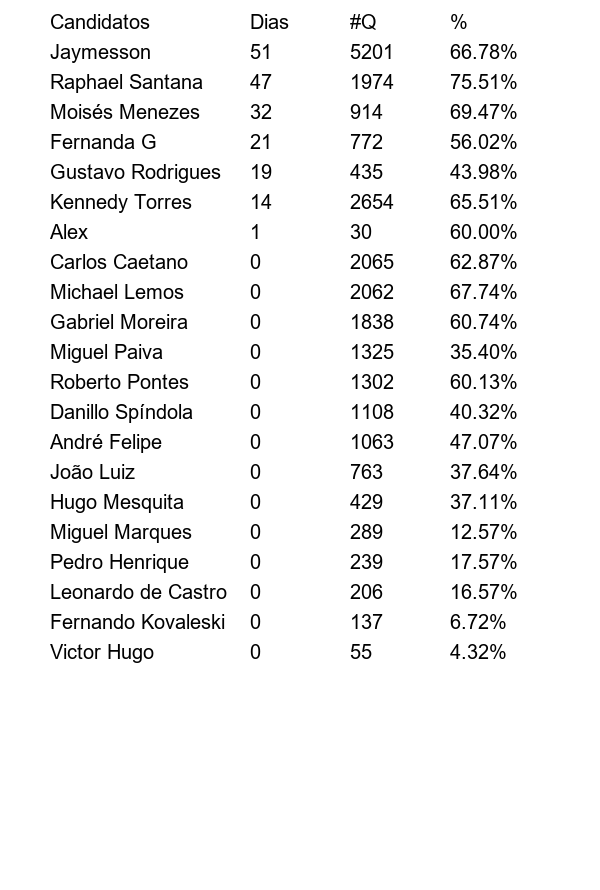
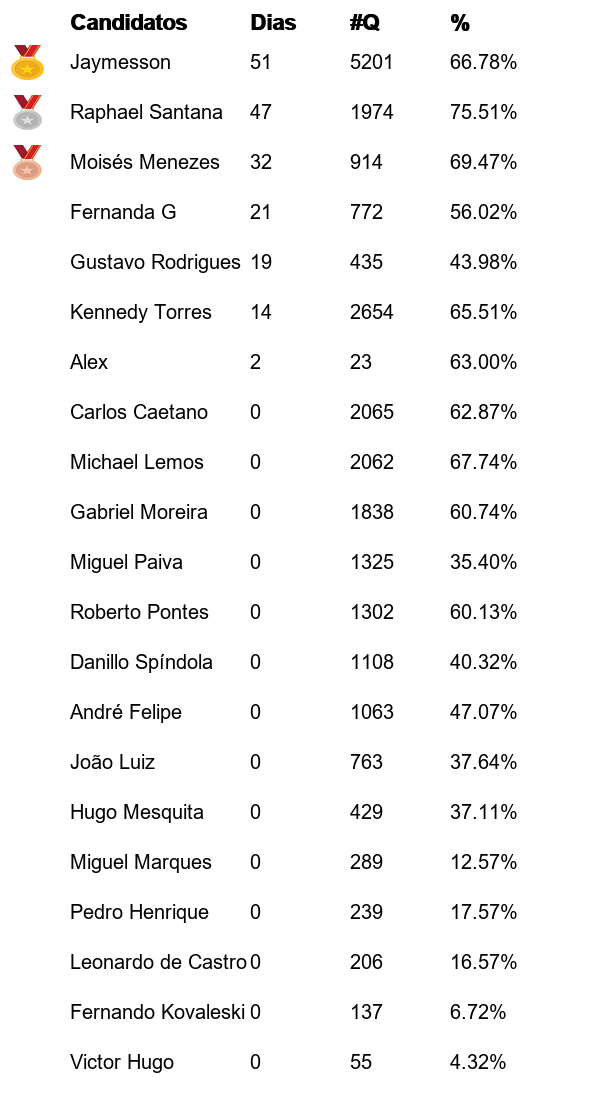
Ajustes na lógica e no json

diff --git a/bot_DEVEst.py b/bot_DEVEst.py
@@ -14,6 +14,7 @@ import json
 import os
 import pandas as pd
 import re
+# 🔹 Função para gerar a imagem do ranking
 from PIL import Image, ImageDraw, ImageFont
 
 # Obtém o diretório onde o script está localizado
@@ -81,36 +82,9 @@ async def receber_dados(update: Update, context: CallbackContext):
         # Obtém o nome real do usuário (primeiro nome + sobrenome se disponível)
         nome_usuario = f"{user.first_name} {user.last_name}".strip() if user.last_name else user.first_name
 
-        # Obtém e normaliza o número de telefone (se disponível no Telegram)
-        telefone = None
-        if hasattr(user, "phone_number") and user.phone_number:
-            telefone = normalizar_numero(user.phone_number)
-
         # Obtém a data atual no fuso horário de Brasília
         fuso_brasilia = pytz.timezone("America/Sao_Paulo")
         data_atual = datetime.now(fuso_brasilia).strftime("%Y-%m-%d")
-
-        # 🔹 Garantir que todos os usuários tenham `ultima_data` preenchida corretamente
-        for usuario, dados in dados_usuarios.items():
-            if "ultima_data" not in dados or not dados["ultima_data"]:
-                dados_usuarios[usuario]["ultima_data"] = data_atual  # Define a data atual se estiver vazia
-
-        # 🔹 Remover números de telefone inválidos (exemplo: "+5500000000...")
-        for usuario, dados in dados_usuarios.items():
-            telefone_salvo = dados.get("telefone", "")
-            if telefone_salvo and "000000000" in telefone_salvo:  # Se o telefone for inválido, remove
-                dados_usuarios[usuario]["telefone"] = None
-
-        # Verifica se o telefone já existe na base e associa ao nome
-        usuario_existente = None
-        for usuario, dados in dados_usuarios.items():
-            telefone_salvo = normalizar_numero(dados.get("telefone"))
-            if telefone_salvo == telefone:
-                usuario_existente = usuario
-                break
-
-        if usuario_existente:
-            nome_usuario = usuario_existente  # Mantém o nome original do WhatsApp
 
         # Separa os dados enviados (formato correto: `@SeLigaDEV 23/63%`)
         padrao = rf"@{context.bot.username} (\d+)/(\d+)%"
@@ -122,43 +96,46 @@ async def receber_dados(update: Update, context: CallbackContext):
 
             if nome_usuario in dados_usuarios:
                 # Obtém a última data registrada
-                ultima_data = dados_usuarios[nome_usuario].get("ultima_data", data_atual)
+                ultima_data = dados_usuarios[nome_usuario].get("ultima_data", "")
 
-                # Se for um novo dia, incrementa a contagem de dias consecutivos
+                # Se for um novo dia, acumula os dados antigos no total antes de sobrescrever
                 if ultima_data != data_atual:
+                    if "questoes_do_dia" in dados_usuarios[nome_usuario]:
+                        # Adiciona as questões do dia anterior ao total
+                        dados_usuarios[nome_usuario]["questoes"] += dados_usuarios[nome_usuario]["questoes_do_dia"]
+                    
+                    if "percentual_do_dia" in dados_usuarios[nome_usuario]:
+                        # Atualiza a média ponderada usando o total de questões
+                        total_questoes = dados_usuarios[nome_usuario]["questoes"]
+                        if total_questoes > 0:
+                            nova_porcentagem = (
+                                (dados_usuarios[nome_usuario]["percentual"] * total_questoes) +
+                                (dados_usuarios[nome_usuario]["percentual_do_dia"] * dados_usuarios[nome_usuario]["questoes_do_dia"])
+                            ) / total_questoes
+                            dados_usuarios[nome_usuario]["percentual"] = round(nova_porcentagem, 2)
+
+                    # Reseta os valores do dia
+                    dados_usuarios[nome_usuario]["questoes_do_dia"] = acertos_dia
+                    dados_usuarios[nome_usuario]["percentual_do_dia"] = percentual_dia
                     dados_usuarios[nome_usuario]["dias"] += 1
 
-                # Recupera os dados antigos
-                questoes_anteriores = dados_usuarios[nome_usuario]["questoes"]
-                porcentagem_anterior = dados_usuarios[nome_usuario]["percentual"]
-
-                # Atualiza corretamente o total de questões
-                dados_usuarios[nome_usuario]["questoes"] += acertos_dia  # Somente a soma dos acertos
-
-                # Recalcula a porcentagem correta (MÉDIA PONDERADA)
-                total_questoes = dados_usuarios[nome_usuario]["questoes"]
-
-                if total_questoes > 0:
-                    nova_porcentagem = ((porcentagem_anterior * questoes_anteriores) + (percentual_dia * acertos_dia)) / total_questoes
                 else:
-                    nova_porcentagem = percentual_dia  # Caso inicial
+                    # Se for o mesmo dia, sobrescreve as questões e a porcentagem do dia
+                    dados_usuarios[nome_usuario]["questoes_do_dia"] = acertos_dia
+                    dados_usuarios[nome_usuario]["percentual_do_dia"] = percentual_dia
 
-                # Garante que a porcentagem esteja entre 0% e 100%
-                nova_porcentagem = min(max(nova_porcentagem, 0), 100)
-                nova_porcentagem = round(nova_porcentagem, 2)
+                # Atualiza a última data de envio
+                dados_usuarios[nome_usuario]["ultima_data"] = data_atual  
 
-                dados_usuarios[nome_usuario]["percentual"] = nova_porcentagem
-                dados_usuarios[nome_usuario]["ultima_data"] = data_atual  # Atualiza a última data
             else:
                 # Se o usuário não estava no JSON, cria um novo cadastro
-                nova_porcentagem = round(percentual_dia, 2)
-
                 dados_usuarios[nome_usuario] = {
                     "dias": 1,
-                    "questoes": acertos_dia,  # Total de questões = total de acertos enviados
-                    "percentual": nova_porcentagem,  # Usa a porcentagem enviada pelo usuário
+                    "questoes": 0,  # O total só será atualizado no próximo dia
+                    "questoes_do_dia": acertos_dia,  # Armazena apenas o dado do dia
+                    "percentual": percentual_dia,  # Começa com a primeira porcentagem enviada
+                    "percentual_do_dia": percentual_dia,  # Armazena o dado do dia
                     "ultima_data": data_atual,  # Registra a primeira data
-                    "telefone": telefone  # Salva o telefone do usuário
                 }
 
             salvar_dados(ARQUIVO_DADOS, dados_usuarios)
@@ -166,9 +143,11 @@ async def receber_dados(update: Update, context: CallbackContext):
             # Resposta confirmando a atualização
             await update.message.reply_text(
                 f"📊 {nome_usuario}, seus dados foram atualizados:\n"
-                f"- **Dias consecutivos**: {dados_usuarios[nome_usuario]['dias']}\n"
-                f"- **Total de Questões**: {dados_usuarios[nome_usuario]['questoes']}\n"
-                f"- **Média de Acertos**: {nova_porcentagem:.2f}%"
+                f"- Dias consecutivos: {dados_usuarios[nome_usuario]['dias']}\n"
+                f"- Questões do Dia: {dados_usuarios[nome_usuario]['questoes_do_dia']}\n"
+                f"- Média do Dia: {dados_usuarios[nome_usuario]['percentual_do_dia']:.2f}%\n"
+                f"- Total de Questões: {dados_usuarios[nome_usuario]['questoes']}\n"
+                f"- Média Total: {dados_usuarios[nome_usuario]['percentual']:.2f}%"
             )
         else:
             return  # Não responde nada se o formato estiver errado
@@ -209,17 +188,14 @@ def run_schedule():
         time.sleep(1)
 
 
-# 🔹 Função para gerar a imagem do ranking
-from PIL import Image, ImageDraw, ImageFont
-
 # 🔹 Caminhos das imagens das medalhas (use imagens reais de medalhas)
 MEDALHAS = {
-    1: "medalha_ouro.png",   # 🥇
-    2: "medalha_prata.png",  # 🥈
-    3: "medalha_bronze.png"  # 🥉
+    1: "imagem/medalha_ouro.png",   # 🥇
+    2: "imagem/medalha_prata.png",  # 🥈
+    3: "imagem/medalha_bronze.png"  # 🥉
 }
 
-# 🔹 Função para gerar a imagem do ranking com as medalhas ao lado dos nomes
+# Função para gerar a imagem do ranking com títulos em negrito e medalhas ao lado dos nomes
 def gerar_imagem_ranking():
     try:
         # Ordena os usuários pelo número de dias (do maior para o menor)
@@ -229,25 +205,32 @@ def gerar_imagem_ranking():
             return None, []
 
         # Configuração da imagem
-        largura, altura = 600, 50 + len(ranking) * 40
+        largura, altura = 600, 50 + len(ranking) * 50  # Ajuste para espaçamento adequado
         img = Image.new("RGB", (largura, altura), color="white")
         draw = ImageDraw.Draw(img)
 
-        # Carregar fonte
+        # Carregar fontes (padrão e negrito)
         try:
-            fonte = ImageFont.truetype("arial.ttf", size=20)
+            fonte_normal = ImageFont.truetype("arial.ttf", size=20)
+            fonte_bold = ImageFont.truetype("arialbd.ttf", size=22)  # Fonte em negrito
         except IOError:
-            fonte = ImageFont.load_default()
+            fonte_normal = ImageFont.load_default()
+            fonte_bold = fonte_normal  # Usa a fonte padrão caso não encontre a negrito
 
-        # Cabeçalho
+        # Cabeçalho em negrito
         y_offset = 10
         colunas = ["Candidatos", "Dias", "#Q", "%"]
-        x_positions = [50, 250, 350, 450]  # Ajustado para dar espaço às medalhas
+        x_positions = [70, 250, 350, 450]  # Ajustado para dar espaço às medalhas
         for i, coluna in enumerate(colunas):
-            draw.text((x_positions[i], y_offset), coluna, fill="black", font=fonte)
+            # Escreve duas vezes para simular negrito (caso fonte bold não esteja disponível)
+            draw.text((x_positions[i], y_offset), coluna, fill="black", font=fonte_bold)
+            draw.text((x_positions[i] + 1, y_offset), coluna, fill="black", font=fonte_bold)
+
+        # Ajuste no tamanho das medalhas
+        tamanho_medalha = (35, 35)  # Ajuste para manter as proporções corretas
 
         # Adicionando os dados do ranking ordenados por dias
-        y_offset += 30
+        y_offset += 40
         for i, (usuario, dados) in enumerate(ranking, start=1):
             percentual_formatado = f"{dados['percentual']:0.2f}%"
 
@@ -257,13 +240,13 @@ def gerar_imagem_ranking():
             if i <= 3:
                 medalha_path = MEDALHAS.get(i)
                 if medalha_path and os.path.exists(medalha_path):
-                    medalha = Image.open(medalha_path).resize((25, 25))  # Redimensiona a medalha
-                    img.paste(medalha, (10, y_offset))  # Coloca a medalha na posição correta
+                    medalha = Image.open(medalha_path).resize(tamanho_medalha, Image.LANCZOS)  # Redimensiona mantendo qualidade
+                    img.paste(medalha, (10, y_offset - 5), medalha.convert("RGBA"))  # Alinha corretamente
 
             # Escrever os dados na imagem
             for j, valor in enumerate(valores):
-                draw.text((x_positions[j], y_offset), valor, fill="black", font=fonte)
-            y_offset += 30
+                draw.text((x_positions[j], y_offset), valor, fill="black", font=fonte_normal)
+            y_offset += 50  # Ajuste para evitar sobreposição
 
         # Salva a imagem
         image_path = "ranking.png"
